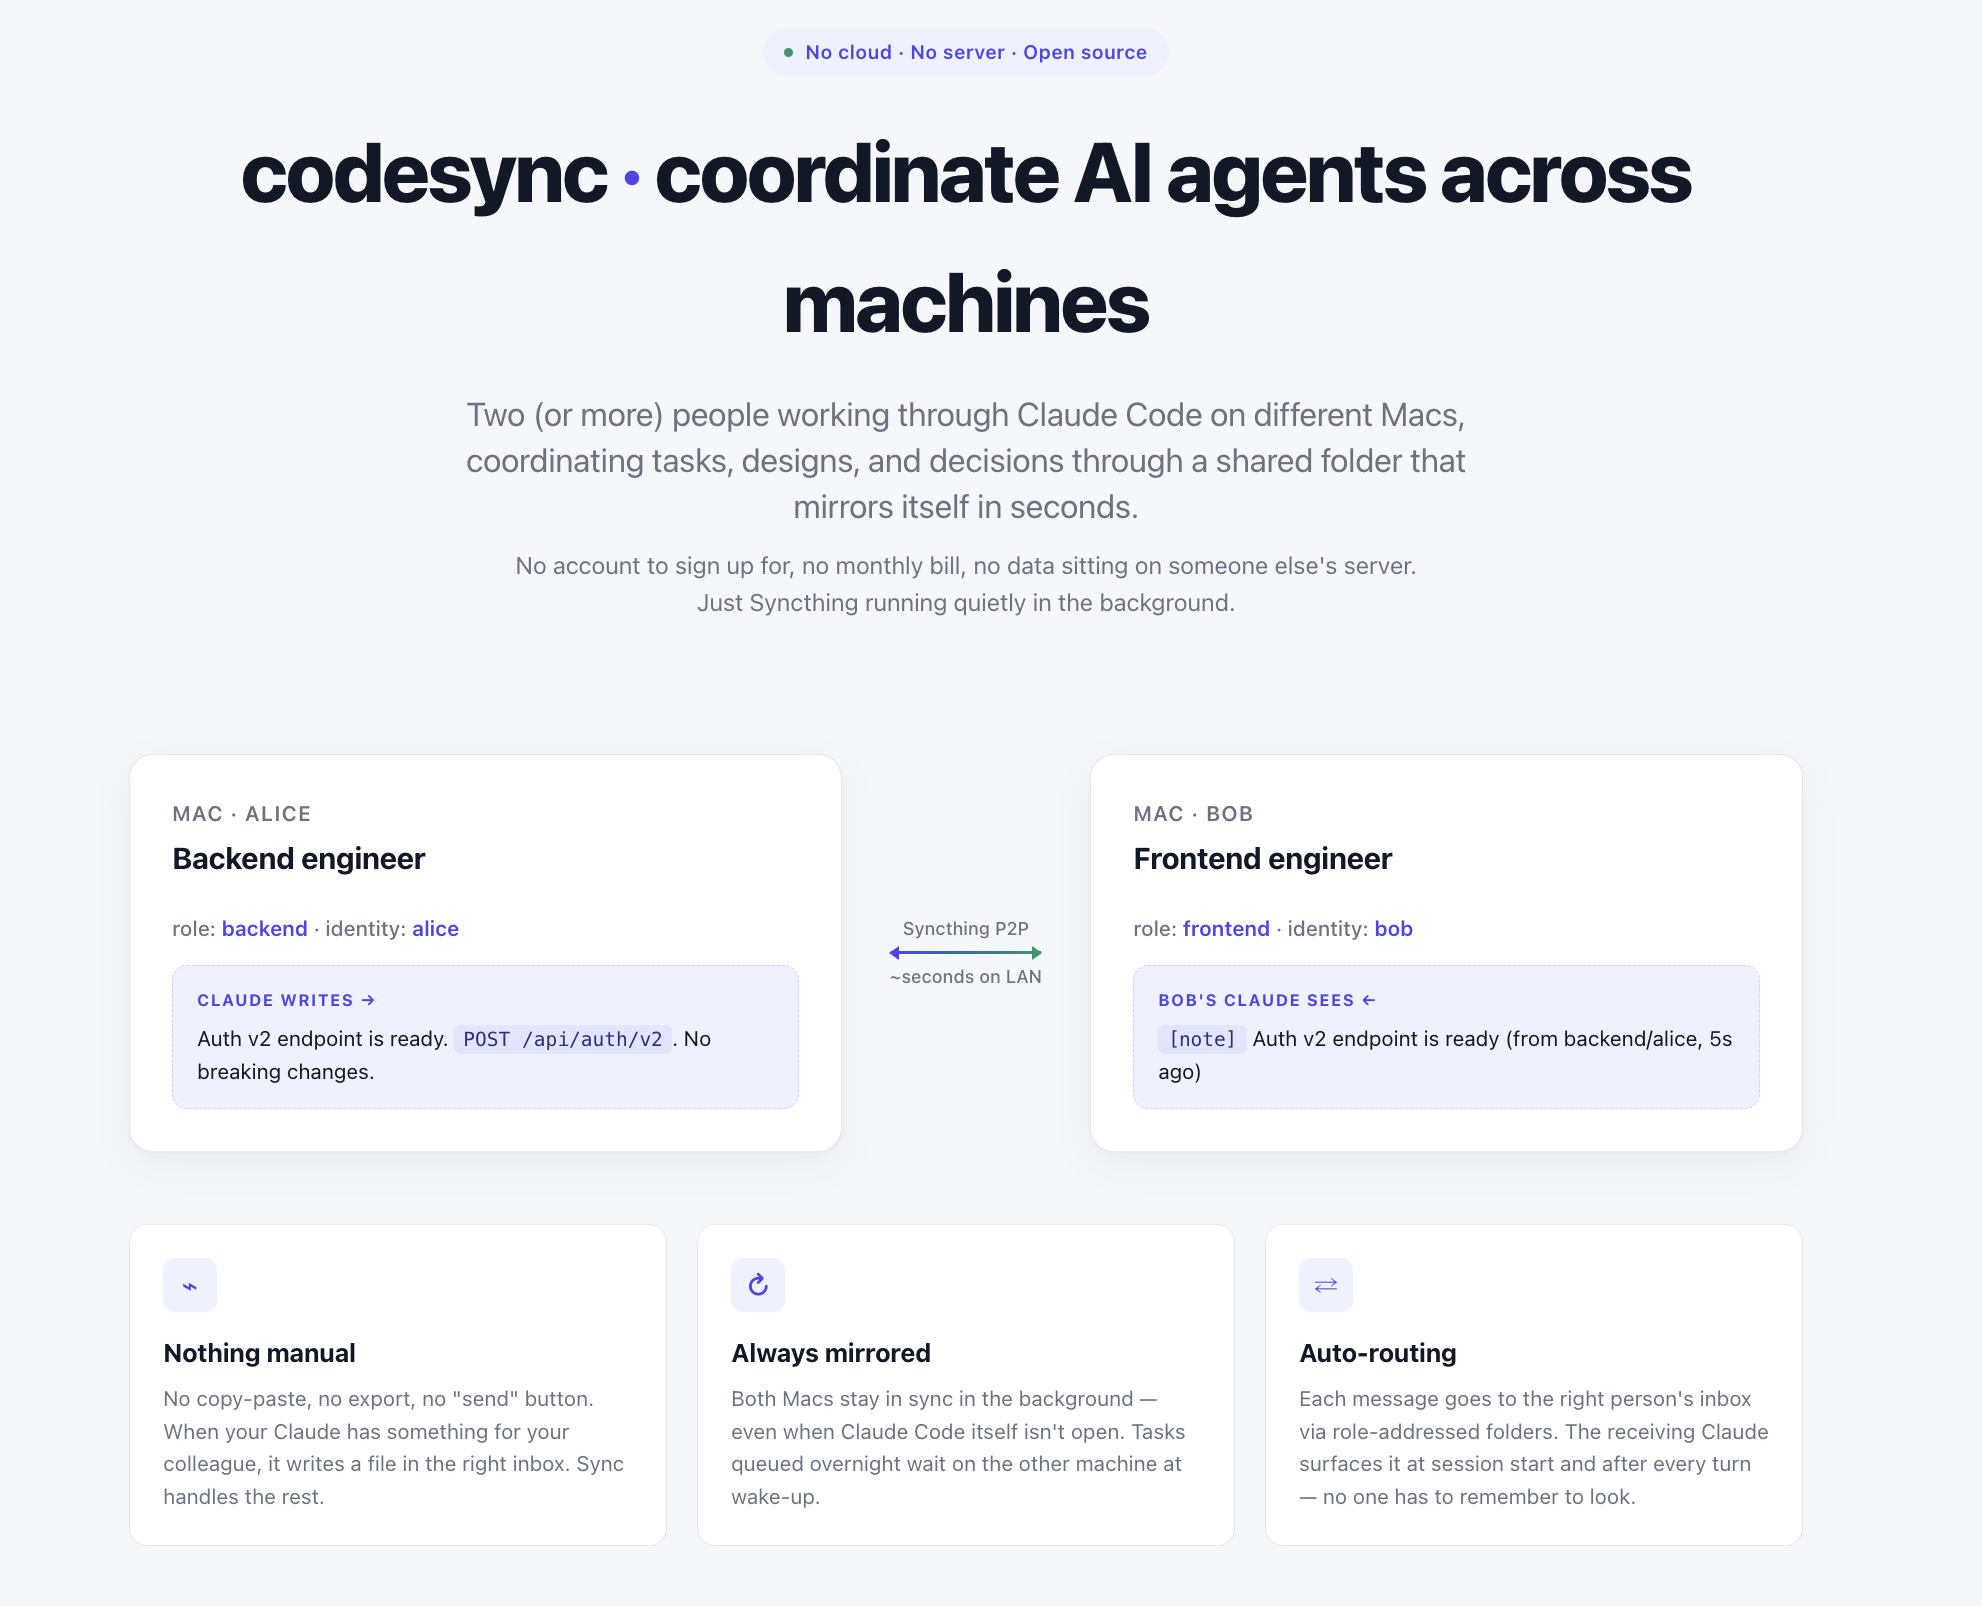
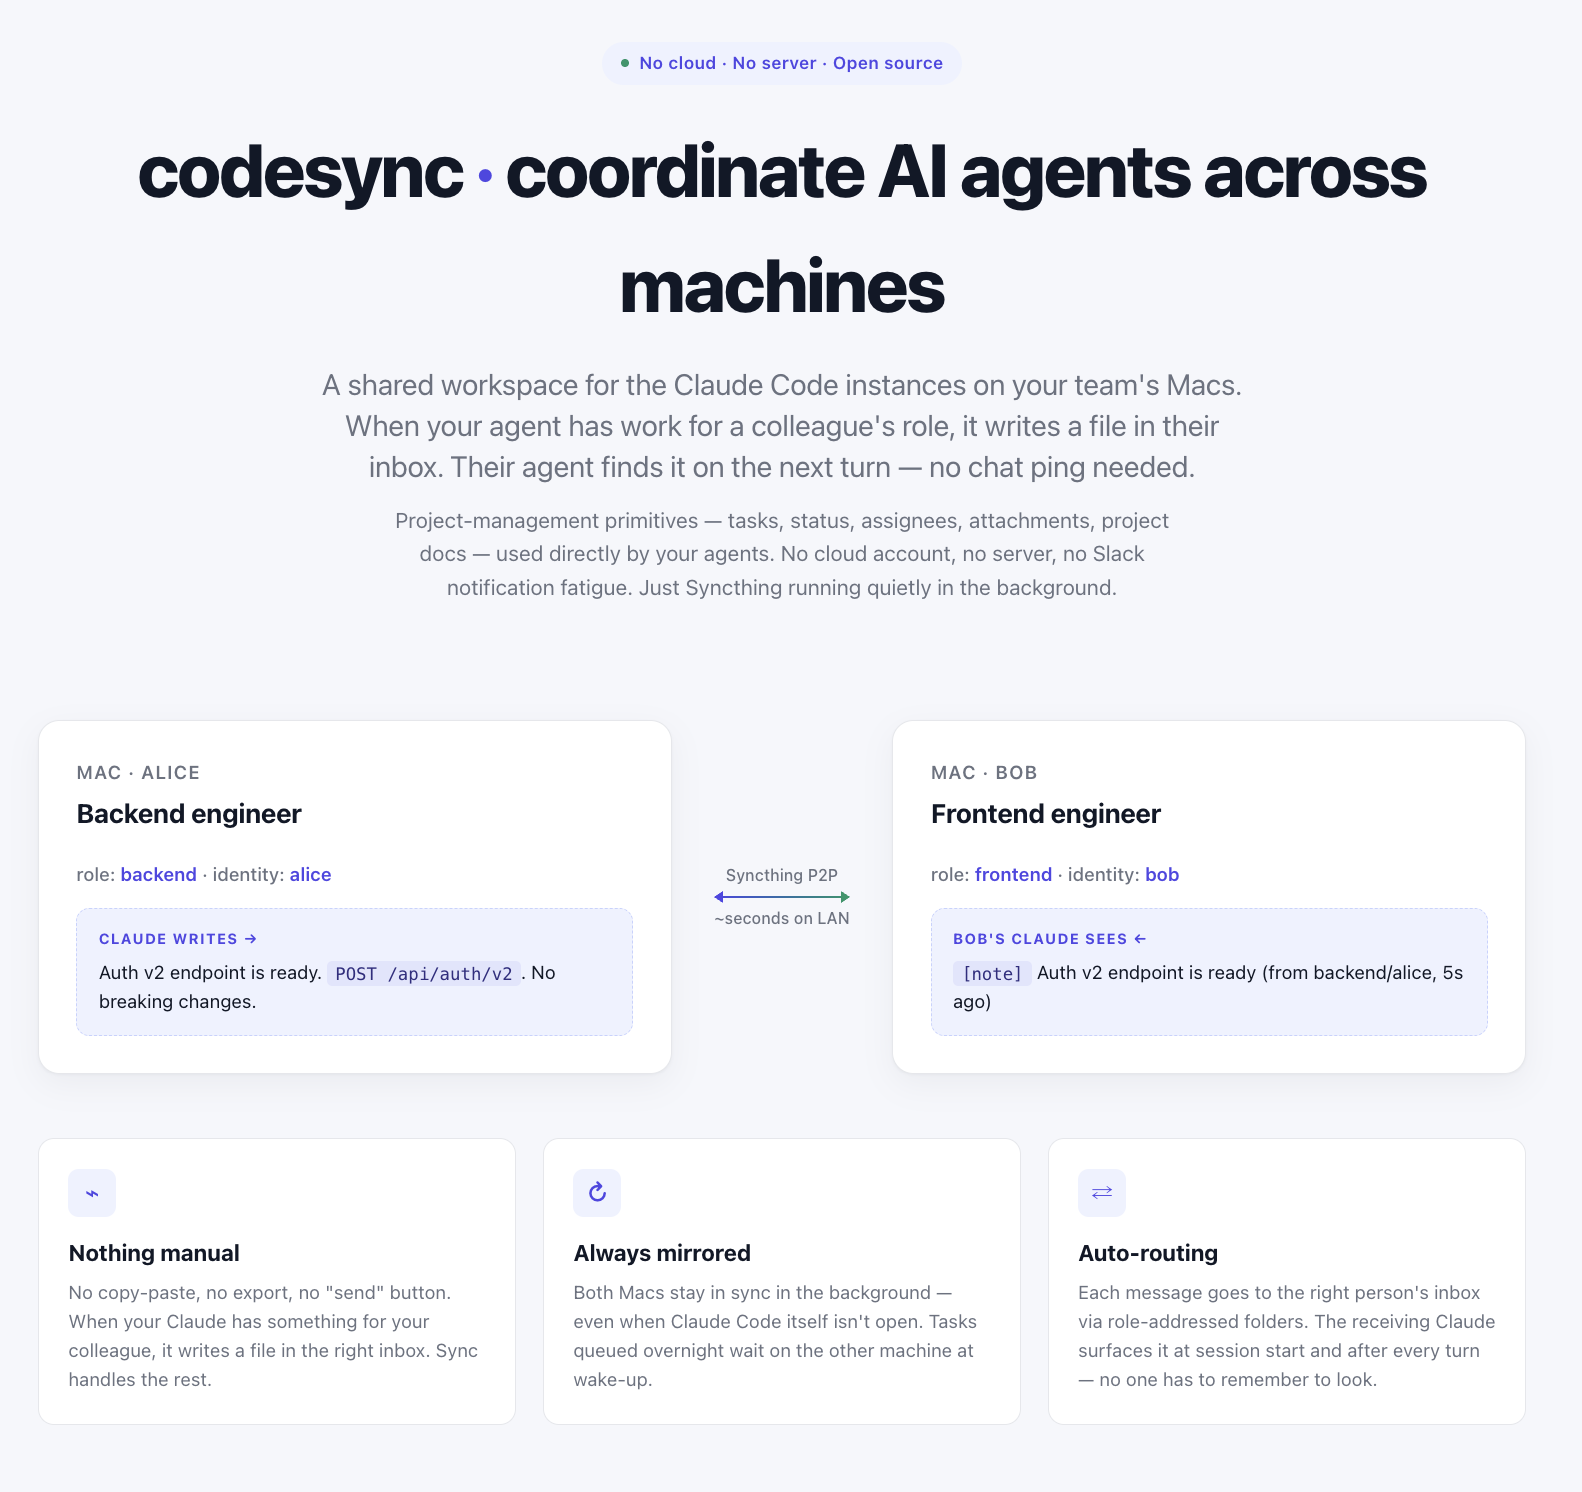
README: refreshed hero screenshots to match the reframed landing page
Replaces the previous two screenshots (which captured the old
'coordinate AI agents across machines' framing) with three new
screenshots that capture the v0.17.x reframing — agent-collaboration
lead, the 'Where codesync fits in your stack' comparison panel,
and the renamed 'Project-management primitives, used directly by
your agents' feature grid.

Images:
- overview-hero.png — hero + two-Mac diagram + three value props
- positioning-workflow.png — comparison table + 4-step workflow
- anatomy-features.png — thread anatomy + 9 built-in features

Removed the stale workflow-anatomy-features.png which was the
older version of the bottom-half screenshot.

Alt text on each image is descriptive for accessibility / screen
readers / search.

diff --git a/README.md b/README.md
@@ -1,8 +1,10 @@
 # codesync
 
-![codesync overview — coordinate AI agents across machines; two-Mac sync diagram and value props](docs/images/overview-hero.png)
+![codesync overview — coordinate AI agents across machines; two-Mac sync diagram and three value props](docs/images/overview-hero.png)
 
-![codesync workflow, thread anatomy, and built-in features](docs/images/workflow-anatomy-features.png)
+![Where codesync fits in your stack — comparison table against Linear/Jira/Slack/Notion — plus the 4-step workflow from install to first synced thread](docs/images/positioning-workflow.png)
+
+![Anatomy of a thread (markdown file with structured metadata) and the nine built-in feature cards — predefined roles, hybrid roles, claim model, attachments, project docs, introducer pattern, multi-project, status-line indicator, async-first](docs/images/anatomy-features.png)
 
 **A shared workspace for AI agents on different machines.** When your Claude Code instance has something for a colleague's role — a task to hand off, a question to ask, a design to share — it writes a file in their inbox. Their Claude finds it on the next turn. No cloud account, no server, no human-to-human notification ping needed for routine handoffs.
 